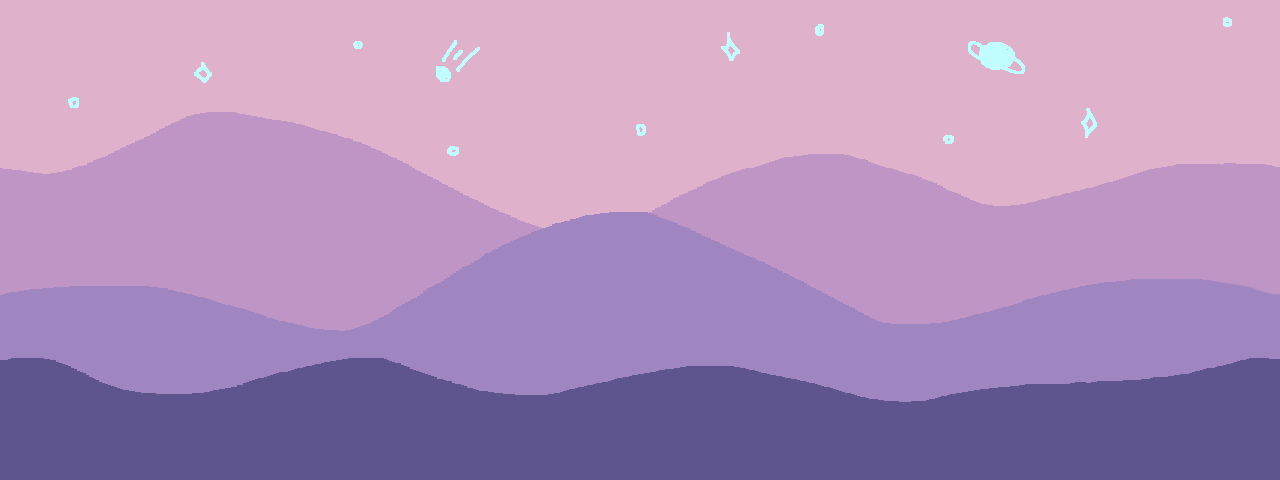
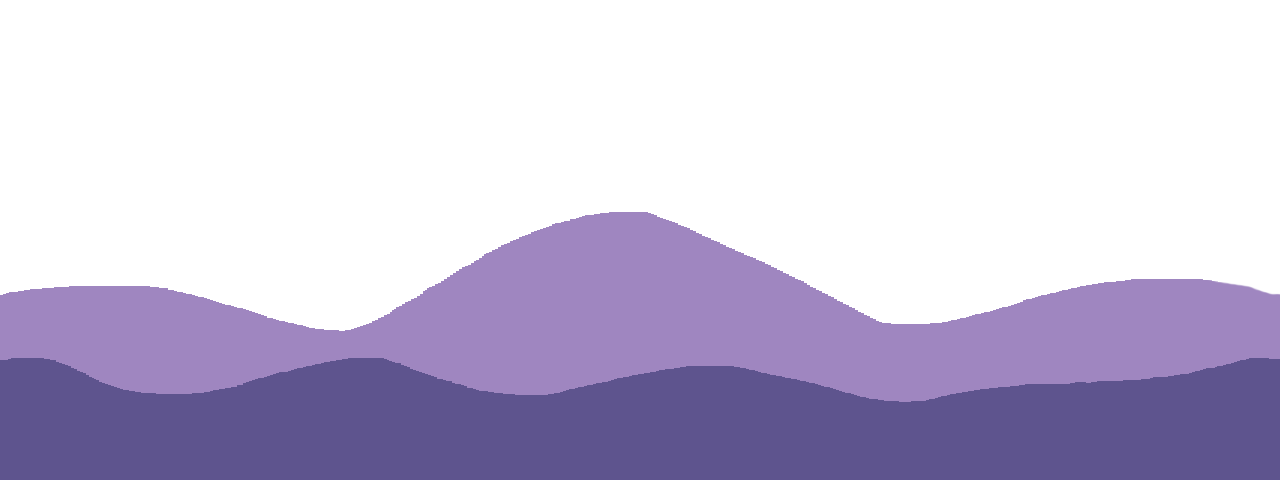
added parallax and updated sprites

diff --git a/src/scenes/Play.js b/src/scenes/Play.js
@@ -10,13 +10,21 @@ class Play extends Phaser.Scene {
         )
         // background
         this.load.image(
-            'bg',
+            'stars',
+            'assets/stars.png'
+        );
+        this.load.image(
+            'background',
             'assets/background.png'
         );
         // cat 
         this.load.image(
             'cat',
             'assets/cat.png'
+        );
+        this.load.image(
+            'wizardHat',
+            'assets/wizardHat.png'
         );
         // whale 
         this.load.image(
@@ -58,12 +66,20 @@ class Play extends Phaser.Scene {
     create() {
 
         // adds background 
-        this.bg = this.add.tileSprite(
+        this.stars = this.add.tileSprite(
+            0,
+            0,
+            640,
+            480,
+            'stars'
+        ).setOrigin(0, 0);
+
+        this.background = this.add.tileSprite(
             0, 
             0, 
             640, 
             480, 
-            'bg'
+            'background'
         ).setOrigin(0, 0);
         
         // adds rocket 
@@ -79,7 +95,7 @@ class Play extends Phaser.Scene {
             this,
             game.config.width / 2,
             game.config.height - borderUISize - borderPadding * 2,
-            'rocket'
+            'wizardHat'
         ).setOrigin(0.5, 0);
 
         // adds ships 
@@ -111,25 +127,25 @@ class Play extends Phaser.Scene {
         ).setOrigin(0, 0);
 
         // adds borders
-        this.borderRight = this.add.image(
+        this.borderR = this.add.image(
             game.config.width - borderUISize, 
             0, 
             'borderR'
             ).setOrigin(0, 0);
 
-        this.borderLeft = this.add.image(
+        this.borderL = this.add.image(
             0, 
             0, 
             'borderL'
         ).setOrigin(0, 0);
 
-        this.borderTop = this.add.image(
+        this.borderT = this.add.image(
             0, 
             0, 
             'borderT'
         ).setOrigin(0, 0); 
 
-        this.borderBottom = this.add.tileSprite(
+        this.borderB = this.add.tileSprite(
             0, 
             game.config.height - borderUISize,
             640, 
@@ -164,7 +180,7 @@ class Play extends Phaser.Scene {
         let scoreConfig = {
             fontFamily: 'Tahoma',
             fontSize: '28px',
-            backgroundColor: '#ffffff',
+            backgroundColor: '#231942',
             color: '#ff6969',
             align: 'right',
             padding: {
@@ -228,8 +244,9 @@ class Play extends Phaser.Scene {
         // stops updating when timer is finished 
         if (!this.gameOver) {
             // background update 
-            this.bg.tilePositionX -= 3;
-            this.borderBottom.tilePositionX -= 4;
+            this.stars.tilePositionX -= 2;
+            this.background.tilePositionX -= 3;
+            this.borderB.tilePositionX -= 4;
 
             // rocket update 
             this.p1Rocket.update();

diff --git a/src/main.js b/src/main.js
@@ -17,9 +17,13 @@ Time to complete: ???
     - Weapon travels to the top of the screen, then loops back to the bottom 
     - Does not reset upon hitting a whale 
     - Cannot be used while cat is firing, and cat cannot fire while hat is firing 
-    - ***can only be used once player gets three hits***
-    - ***new image for hat*** 
+    - New image for hat 
     - *** new sfx for hat*** 
+
+10 pts - Implement parallax scrolling 
+    - Sky and hill in back move slowest 
+    - Two hills in the middle move at an average speed 
+    - Foreground moves fastest 
 
 */
 

diff --git a/src/prefabs/Hat.js b/src/prefabs/Hat.js
@@ -2,7 +2,7 @@ class Hat extends Phaser.GameObjects.Sprite {
     constructor(scene, x, y, texture, frame) {
         super(scene, x, y, texture, frame);
         scene.add.existing(this); // adds hat to scene 
-        this.movementSpeed = 4; // hat movement speed, px per frame 
+        this.movementSpeed = 3; // hat movement speed, px per frame 
         this.isFiring = false; // hat firing status 
         this.canFire = true; 
         this.isLooping = false; // if hat is moving back 

diff --git a/index.html b/index.html
@@ -7,7 +7,7 @@
     <title>cat patrol >:3c</title>
     <style>
         body { 
-            background-color: #ff9999;
+            background-color: #dcc5e0;
         }    
     </style>  
     
